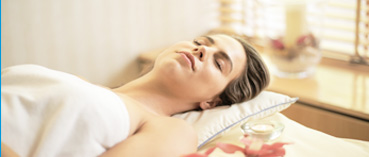
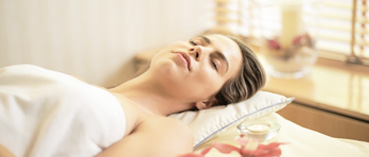
added content for readme file and adjusted thumbnail images in spa.html
Added content for readme file and adjusted thumbnail images in spa.html

diff --git a/README.md b/README.md
@@ -1,2 +1,16 @@
-# Couple-resort-mobile
-This is to update the couple resort mobile webpage, and also the FIP of the first semester. 
+## Couple Resort moblie webpage update
+
+Update the mobile webpage for couple resort. It is also a FIP assisgment of interactive media design seminster one. 
+
+## Usage
+
+__*Linking page:*__
+index.html
+dining.html
+spa.html
+
+## License
+
+MIT License
+
+
